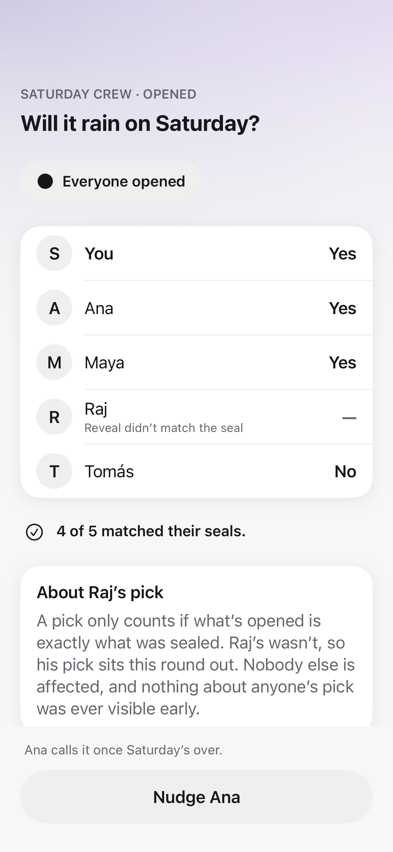
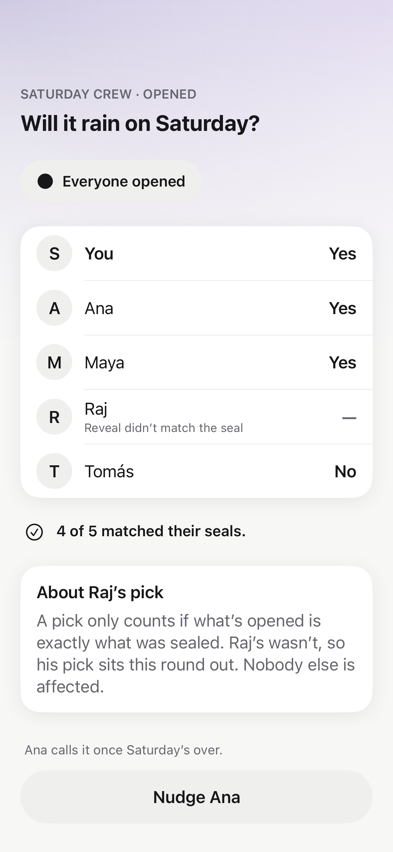
design(polish): state the sealed-pick privacy boundary
Acknowledge own-pick peek and limit the mismatch explanation to what the proof establishes. Refresh only the four affected routes and matching v6 boards.

Verified light and dark on the simulator; 96 tests in 19 suites passed. Design and local freshness gates passed.

Changed region(s): [[0.2748, 0.7934, 0.8855, 0.8545], [0.0916, 0.8239, 0.2443, 0.8545]]

diff --git a/Slip/Screens/ResultScreens.swift b/Slip/Screens/ResultScreens.swift
@@ -342,7 +342,7 @@ struct OpeningScreen: View {
             VStack(alignment: .leading, spacing: SlipSpacing.small) {
                 Text("About Raj’s pick").font(SlipFont.headline)
                     .accessibilityAddTraits(.isHeader)
-                Text("A pick only counts if what’s opened is exactly what was sealed. Raj’s wasn’t, so his pick sits this round out. Nobody else is affected, and nothing about anyone’s pick was ever visible early.")
+                Text("A pick only counts if what’s opened is exactly what was sealed. Raj’s wasn’t, so his pick sits this round out. Nobody else is affected.")
                     .font(SlipFont.body)
                     .foregroundStyle(SlipColor.secondary)
             }

diff --git a/Slip/Screens/SealScreens.swift b/Slip/Screens/SealScreens.swift
@@ -51,7 +51,7 @@ struct SealScreen: View {
                         }.padding(.top, SlipSpacing.medium)
                     } else {
                         choices.padding(.horizontal, typeSize.isAccessibilitySize ? SlipSpacing.zero : SlipSpacing.medium)
-                        Text("Nobody — not even Slip — can read a sealed pick.")
+                        Text("Your sealed pick stays on this iPhone. You can still peek at it.")
                             .font(SlipFont.footnote).foregroundStyle(SlipColor.onTicket).multilineTextAlignment(.center)
                     }
                 }.padding(.horizontal, SlipSpacing.large)

diff --git a/Slip/Screens/CreationScreens.swift b/Slip/Screens/CreationScreens.swift
@@ -358,7 +358,7 @@ struct InviteScreen: View {
                     }
                     .padding(.top, SlipSpacing.large)
 
-                    Text("Sealed on your own iPhone, opened together. Nobody reads a pick early.")
+                    Text("Sealed on your own iPhone, opened together. You can still peek at your own pick.")
                         .font(SlipFont.footnote)
                         .foregroundStyle(SlipColor.secondary)
                         .multilineTextAlignment(.center)

diff --git a/Slip/Screens/HomeScreens.swift b/Slip/Screens/HomeScreens.swift
@@ -372,7 +372,7 @@ struct HowItWorksScreen: View {
                         .accessibilityAddTraits(.isHeader)
                         .font(SlipFont.large)
                         .foregroundStyle(SlipColor.ink)
-                    Text("One question, a few friends, zero peeking.")
+                    Text("One question, a few friends, sealed picks.")
                         .font(SlipFont.body)
                         .foregroundStyle(SlipColor.secondary)
                 }

diff --git a/README.md b/README.md
@@ -116,7 +116,7 @@ substitute for an authenticated physical-device run.
 
 ## Design and documentation
 
-The [30 canonical v6 boards](docs/design/v6/) are losslessly compacted copies of the reviewed app snapshots, produced on 2026-09-05 after the Luma pass. They cover 24 routes plus three dark and three AX1 boards; v5 Paper boards are historical. Snapshot tests use serialized key-window rendering, 1× standard-range PNGs, light/dark, XL, AX1 and AX5. The 120 references total **11,191,164 bytes** after pixel-identical lossless compression; the comparison threshold remains **0.012**. Re-recording is explicit; see [testing](.claude/docs/testing.md).
+The [30 canonical v6 boards](docs/design/v6/) are losslessly compacted copies of the reviewed app snapshots, produced on 2026-09-05 after the Luma pass. They cover 24 routes plus three dark and three AX1 boards; v5 Paper boards are historical. Snapshot tests use serialized key-window rendering, 1× standard-range PNGs, light/dark, XL, AX1 and AX5. The 120 references total **11,193,650 bytes** after pixel-identical lossless compression; the comparison threshold remains **0.012**. Re-recording is explicit; see [testing](.claude/docs/testing.md).
 
 The [interactive explainer](docs/how-slip-works.html) distinguishes the current local build from the planned connected flow. It is an illustration, not a transaction receipt.
 
